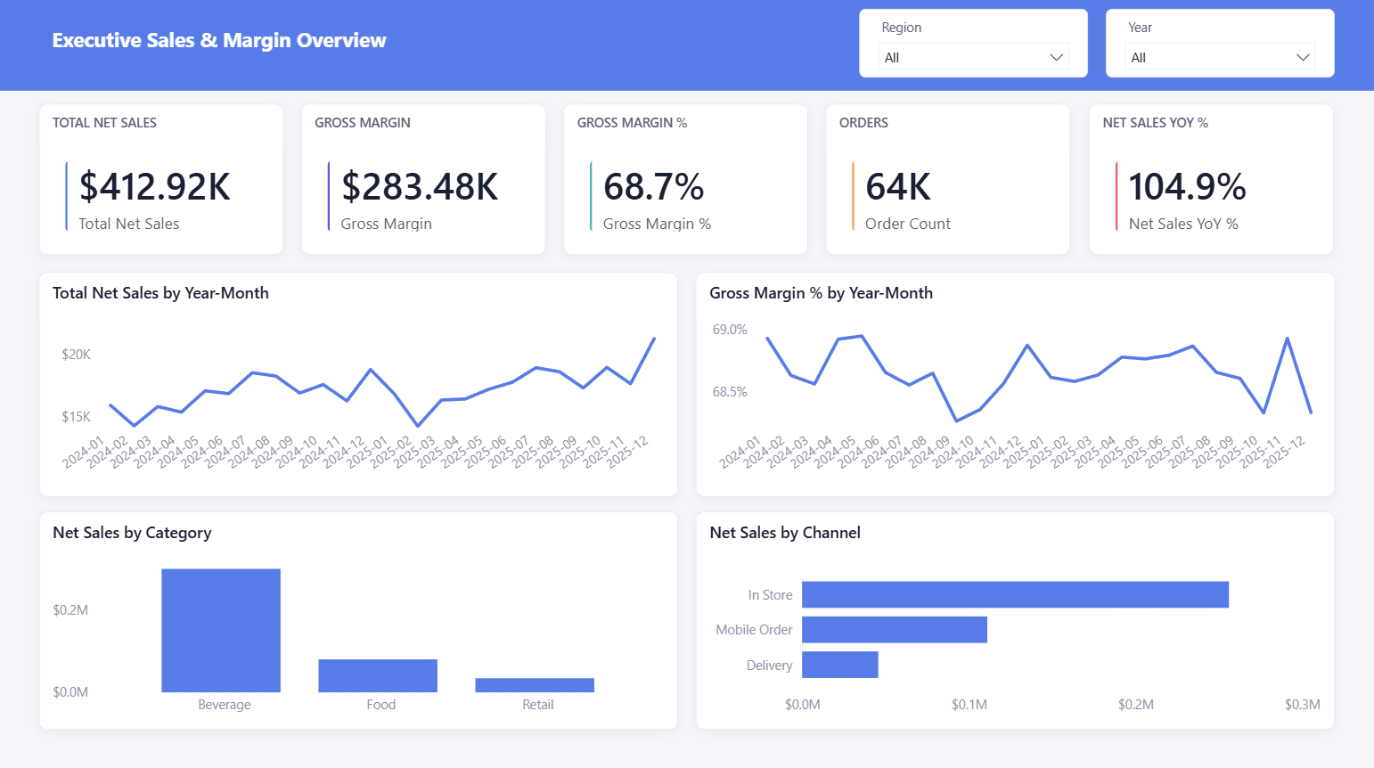
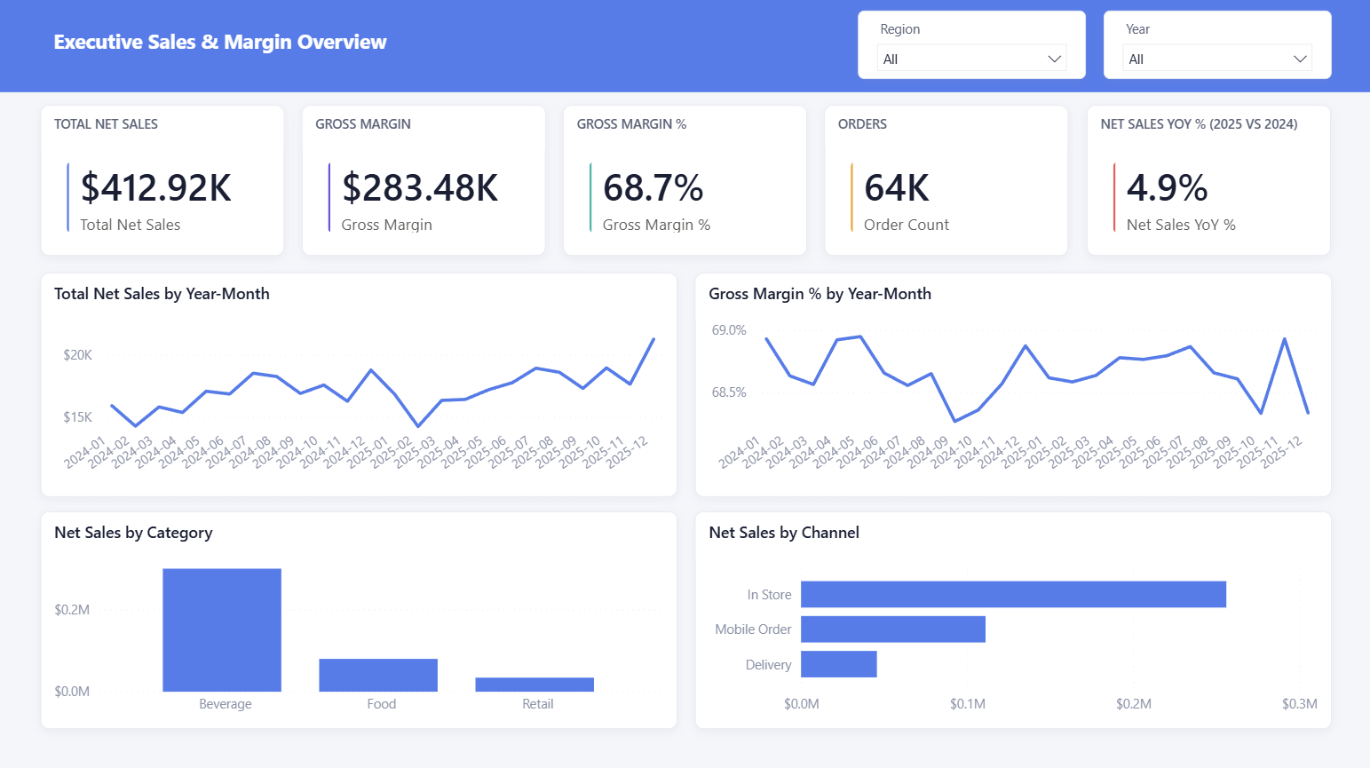
docs: replace report screenshot with post-fix capture
The previous image predated the YoY fix and showed 104.9% on a card
titled NET SALES YOY %. The new capture shows 4.9% on a card titled
NET SALES YOY % (2025 VS 2024), which is what the published report
actually renders now.

Reworks the surrounding prose accordingly. The bug write-up is kept,
since a generated visual that was plausible, well formatted and wrong
is the most useful thing on the page, but it now reads as history
rather than as a description of the image. Adds a line on how to
reproduce it live for anyone who wants to show the failure rather
than just describe it.

diff --git a/docs/05-report.md b/docs/05-report.md
@@ -75,7 +75,7 @@ surfacing, not a phase 5 problem.
 This is the `Executive Sales & Margin Overview` page after the review pass below. Copilot
 drafted the visuals, then the layout, theme and titles were tightened by hand.
 
-![Executive Sales & Margin Overview: a Power BI report page with a blue header band containing Region and Year slicers, a row of five KPI cards, two line charts by year-month, and two bar charts by category and channel](images/executive-sales-margin-overview.png)
+![Executive Sales & Margin Overview: a Power BI report page with a blue header band containing Region and Year slicers, a row of five KPI cards reading $412.92K total net sales, $283.48K gross margin, 68.7% gross margin percent, 64K orders and 4.9% net sales year over year, two line charts by year-month, and two bar charts by category and channel](images/executive-sales-margin-overview.png)
 
 Worth pointing at during a demo:
 
@@ -83,7 +83,7 @@ Worth pointing at during a demo:
 | --- | --- |
 | Cards read `Total Net Sales`, `Gross Margin`, `Gross Margin %`, `Order Count`, `Net Sales YoY %` | Measure names, straight from the model. Nothing is renamed in the report, so what the audience reads is what Copilot and the data agent read. |
 | `$412.92K` and `68.7%` | The same numbers `python validation/ground_truth.py` returns. Check them live if you want the room to trust the rest. |
-| `104.9%` on the YoY card | Wrong, and deliberately left in the write-up below. It is the most useful thing on the page. |
+| The YoY card is titled `NET SALES YOY % (2025 VS 2024)`, not just `NET SALES YOY %` | The title names the comparison because the card is filtered to one year. It has to be. See below. |
 | Gross Margin % is its own chart, not a second series on the sales chart | A rate and an amount on one axis is the most common way a generated page misleads. |
 | Category and Channel as separate bar charts | These are the two splits the audience always asks for next, so answering them before the question is asked keeps the demo moving. |
 | Region and Year slicers in the header band | Every number on the page is qualified by a visible filter state. |
@@ -94,18 +94,20 @@ Category`, are pinned as verified answers in [phase 4](04-prep-for-ai.md), along
 properly: a verified answer returns the visual itself rather than a freshly generated
 query, so whatever you pin is what the audience sees.
 
-### The bug in this screenshot, and why it is the best slide in the deck
+### The bug this page used to have, and why it is worth demoing
 
-Look at the fifth card. It reads `104.9%`. Net sales did not grow 105 percent.
+That last card is the most useful thing on the page, because it was wrong.
+
+When Copilot first generated it, it read **104.9%**. Net sales did not grow 105 percent.
 
 `Net Sales YoY %` is `DIVIDE([Total Net Sales] - [Net Sales PY], [Net Sales PY])`, and the
 DAX is correct. The card was wrong because it had no year filter. With the whole model in
 context, `Total Net Sales` covers 2024 and 2025 while `SAMEPERIODLASTYEAR` can only reach
 back to 2024, so the card compared two years of sales against one. Filtered to 2025 the
-same measure returns **4.9%**, which is the real number.
+same measure returns **4.9%**, which is what it shows above.
 
-The card is now pinned to 2025 and retitled `NET SALES YOY % (2025 VS 2024)`. The
-screenshot above predates that fix, so recapture it if you are updating these docs.
+The fix was a visual-level filter pinning the card to 2025, plus the retitle so the
+comparison is stated rather than assumed.
 
 Two things worth saying out loud when you show this:
 
@@ -114,6 +116,9 @@ Two things worth saying out loud when you show this:
 2. Time intelligence at a grand total is the most common version of this failure. Any
    measure built on `SAMEPERIODLASTYEAR`, `DATEADD` or `TOTALYTD` needs a single period in
    context to mean anything, and a card with no filter does not have one.
+
+If you want to reproduce it live, drop `Net Sales YoY %` on a blank card with no filter and
+watch it read 104.9%.
 
 This is also why phase 4 matters. The AI instructions tell Copilot and the data agent that
 `Net Sales YoY %` needs a single year in context, so the same trap does not get reproduced
